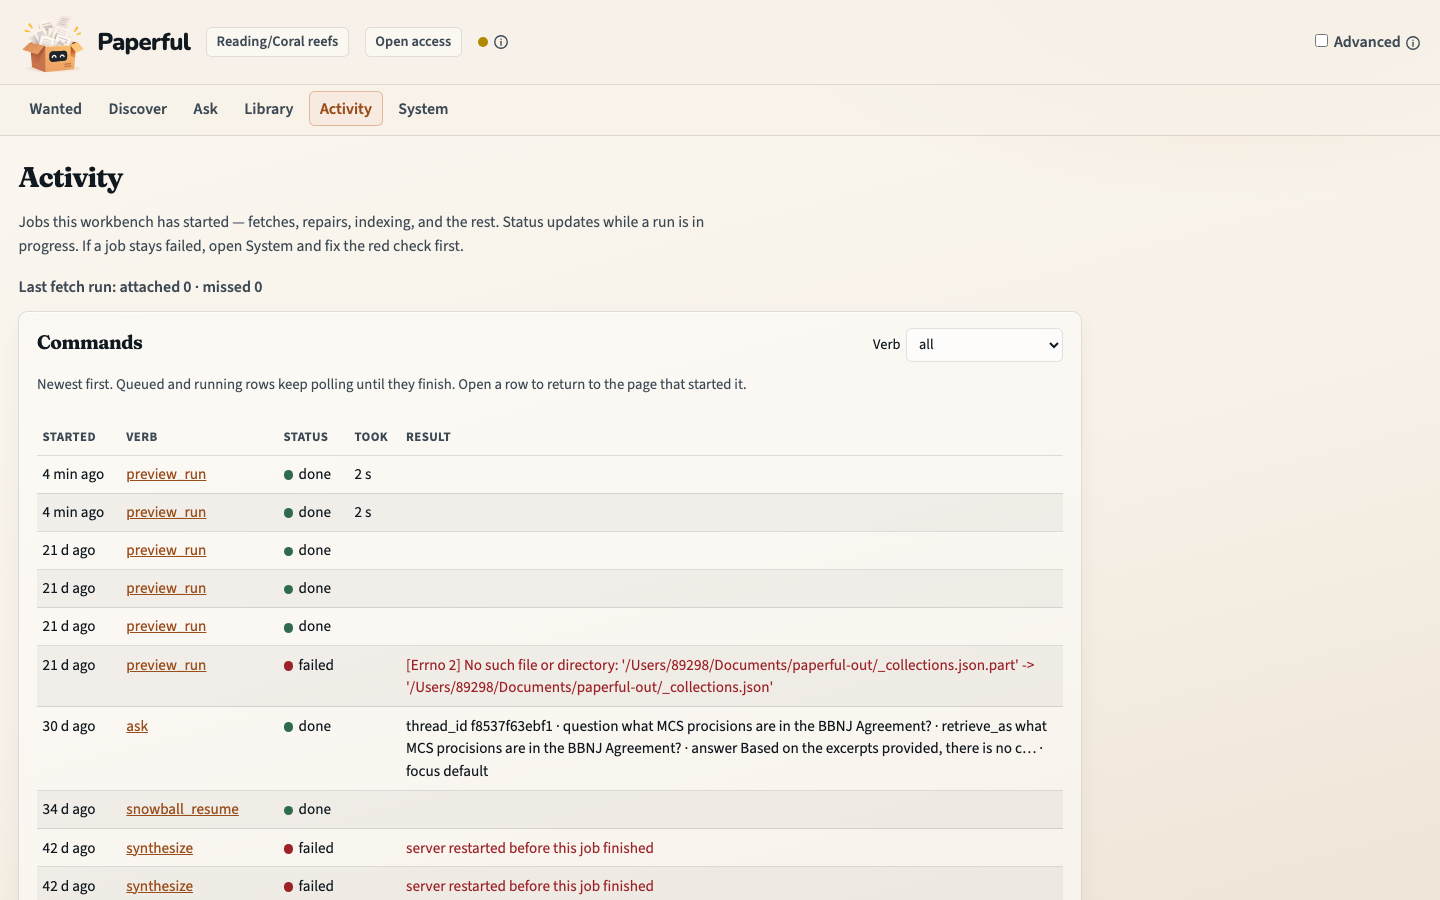
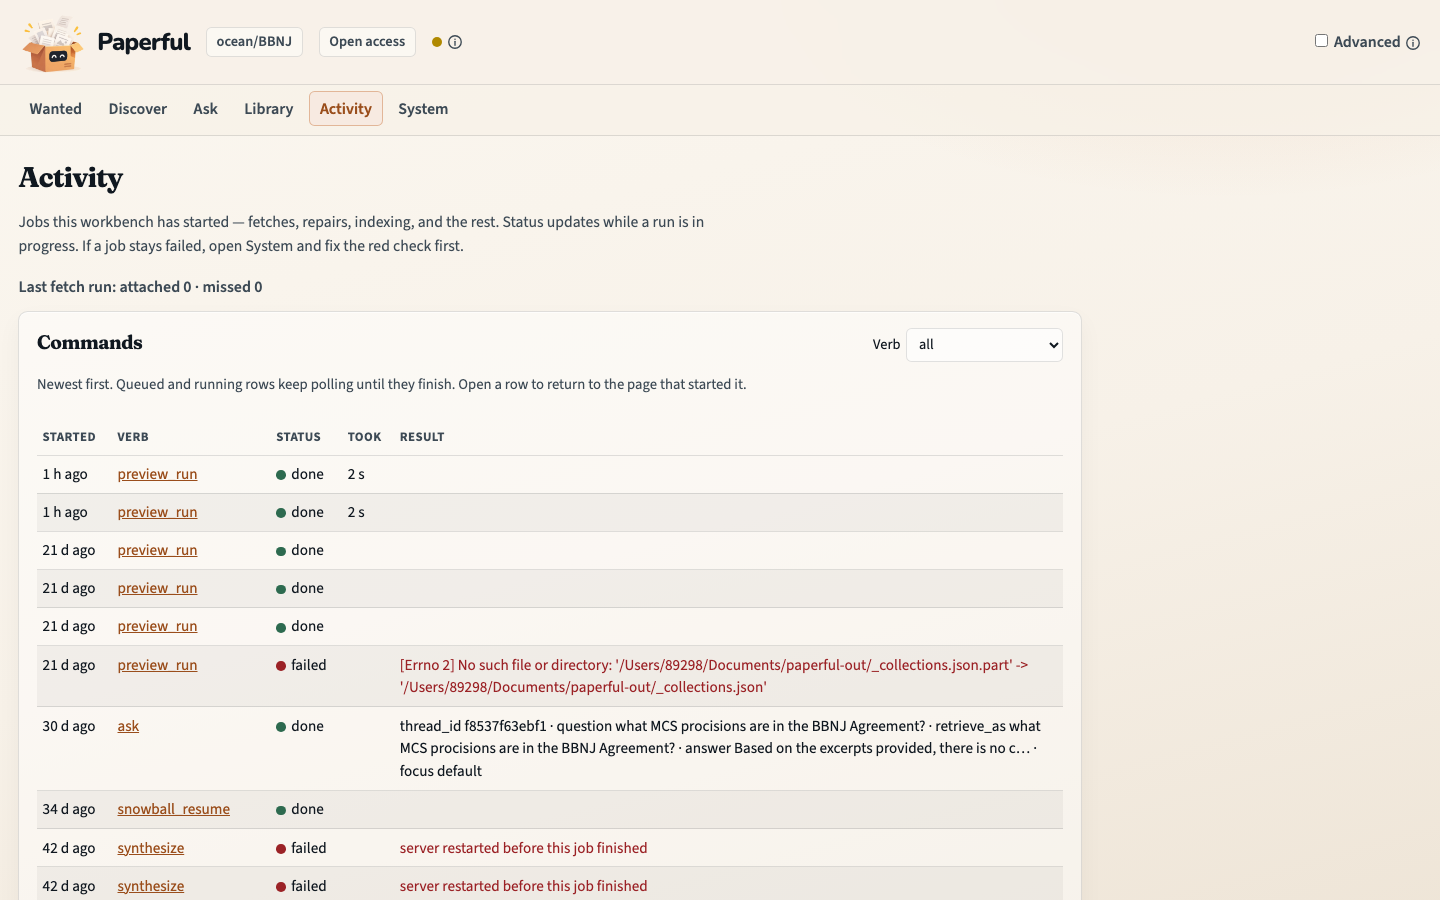
Update documentation to reflect changes in collection references and improve clarity
This commit updates various documentation files to replace references from the `Reading/Coral reefs` collection to the new `ocean/BBNJ` collection. Changes include updates to the CHANGELOG, contributing guidelines, and multiple documentation files to ensure consistency across the project. Additionally, screenshots and example commands have been modified to align with the new collection, enhancing the user experience and clarity of the documentation.

diff --git a/paperful/ui/templates/discover.html b/paperful/ui/templates/discover.html
@@ -309,7 +309,7 @@
   {% else %}
   <form method="post" action="/discover/search/run" class="form-stack" id="discoverWebForm">
     <label>Query {{ info("Terms sent to SearXNG. Quote phrases. filetype:pdf is appended unless you pick none.") }}
-      <input name="query" placeholder='"coral reef" OR "reef restoration"'>
+      <input name="query" placeholder='"BBNJ" OR "biodiversity beyond national jurisdiction"'>
     </label>
     <label>Hosts {{ info("Optional comma list. Restricts hits and adds site: ORs.") }}
       <input name="hosts" placeholder="iucn.org,undocs.org,highseasalliance.org">
@@ -326,7 +326,7 @@
   <form method="post" action="/discover/search/watch/save" class="form-stack">
     <p class="field-legend">Watch {{ info("Save this query as a pull-only grey watch. Paperful remembers seen URLs and proposes new ones. You still cron search watch run — there is no built-in scheduler.") }}</p>
     <label>Watch name <input name="name" placeholder="my-search" required></label>
-    <label>Query <input name="query" placeholder='"coral reef" OR "reef restoration"'></label>
+    <label>Query <input name="query" placeholder='"BBNJ" OR "biodiversity beyond national jurisdiction"'></label>
     <label>Hosts <input name="hosts" placeholder="iucn.org,undocs.org"></label>
     <input type="hidden" name="filetype" value="pdf">
     <label>Interval days <input name="interval_days" type="number" min="0" max="365" value="7"></label>

diff --git a/website/index.html b/website/index.html
@@ -107,9 +107,6 @@
             first, campus when you have it. A folder copy stays on this
             machine — yours to back up or take elsewhere.
           </p>
-          <p class="fine" style="margin-top: 0.5rem; opacity: 0.75;">
-            Not paperful.io — Paperful is a free, open-source helper for your own Zotero library.
-          </p>
           <div class="cta-row">
             <a class="btn primary" href="#product">See how it works</a>
             <a class="btn ghost" href="#install">Install</a>

diff --git a/scripts/docs/seed_demo_collection.py b/scripts/docs/seed_demo_collection.py
@@ -5,8 +5,12 @@ Needs Zotero open (local API), Unpaywall email in config.toml, and network.
 Ask needs ``[llm]`` enabled. Does not opt in Sci-Hub or Scholar.
 
     uv run python scripts/docs/seed_demo_collection.py
-    PAPERFUL_SHOT_COLLECTION="Reading/Coral reefs" \\
+    PAPERFUL_SHOT_COLLECTION="ocean/BBNJ" \\
       uv run python scripts/docs/seed_demo_collection.py
+
+Public shots default to ``ocean/BBNJ``. If that collection already has
+enough parents, snowball and ``run`` are skipped so production is not
+mutated; ingest and Ask still run.
 """
 
 from __future__ import annotations
@@ -18,10 +22,10 @@ import sys
 from pathlib import Path
 
 ROOT = Path(__file__).resolve().parents[2]
-DEFAULT_COLLECTION = os.environ.get("PAPERFUL_SHOT_COLLECTION", "Reading/Coral reefs")
-DEFAULT_QUERY = os.environ.get("PAPERFUL_SHOT_TOPIC", "coral reef restoration")
+DEFAULT_COLLECTION = os.environ.get("PAPERFUL_SHOT_COLLECTION", "ocean/BBNJ")
+DEFAULT_QUERY = os.environ.get("PAPERFUL_SHOT_TOPIC", "BBNJ Agreement")
 DEFAULT_ASK = os.environ.get(
-    "PAPERFUL_SHOT_ASK", "What are coral endosymbionts?"
+    "PAPERFUL_SHOT_ASK", "What does the BBNJ Agreement require for EIAs?"
 )
 MIN_PARENTS = 20
 
@@ -78,7 +82,7 @@ def main() -> None:
     have_enough = n is not None and n >= MIN_PARENTS
 
     if have_enough:
-        print(f"skip snowball: {collection} already has ~{n} items")
+        print(f"skip snowball and run: {collection} already has ~{n} items")
     else:
         _paperful(
             "snowball",
@@ -99,32 +103,31 @@ def main() -> None:
             "--no-author-site-preflight",
             "--no-refine",
         )
-
-    # Have: a few OA PDFs attached (Zotero 10+).
-    _paperful(
-        "run",
-        "-C",
-        collection,
-        "--preset",
-        "oa",
-        "--limit",
-        "5",
-        "--no-browser-agent",
-        check=False,
-    )
-    # Held: downloaded to out/, not attached.
-    _paperful(
-        "run",
-        "-C",
-        collection,
-        "--preset",
-        "oa",
-        "--limit",
-        "5",
-        "--no-attach",
-        "--no-browser-agent",
-        check=False,
-    )
+        # Have: a few OA PDFs attached (Zotero 10+).
+        _paperful(
+            "run",
+            "-C",
+            collection,
+            "--preset",
+            "oa",
+            "--limit",
+            "5",
+            "--no-browser-agent",
+            check=False,
+        )
+        # Held: downloaded to out/, not attached.
+        _paperful(
+            "run",
+            "-C",
+            collection,
+            "--preset",
+            "oa",
+            "--limit",
+            "5",
+            "--no-attach",
+            "--no-browser-agent",
+            check=False,
+        )
 
     ingest = _paperful("rag", "ingest", "-C", collection, check=False)
     if ingest.returncode != 0:

diff --git a/scripts/docs/capture_workbench.py b/scripts/docs/capture_workbench.py
@@ -30,15 +30,15 @@ DOCS_OUT = ROOT / "docs" / "_static" / "workflows"
 WEB_OUT = ROOT / "website" / "images"
 THREADS = Path(load_config().state_dir) / "rag" / "threads"
 BASE = os.environ.get("PAPERFUL_UI", "http://127.0.0.1:8765").rstrip("/")
-COLLECTION = os.environ.get("PAPERFUL_SHOT_COLLECTION", "Reading/Coral reefs")
-TOPIC_QUERY = os.environ.get("PAPERFUL_SHOT_TOPIC", "coral reef restoration")
-SEARCH_Q = os.environ.get("PAPERFUL_SHOT_SEARCH", "reef restoration")
+COLLECTION = os.environ.get("PAPERFUL_SHOT_COLLECTION", "ocean/BBNJ")
+TOPIC_QUERY = os.environ.get("PAPERFUL_SHOT_TOPIC", "BBNJ Agreement")
+SEARCH_Q = os.environ.get("PAPERFUL_SHOT_SEARCH", "environmental impact assessment")
 ASK_QUESTION = os.environ.get(
     "PAPERFUL_SHOT_ASK",
-    "What are coral endosymbionts?",
+    "What does the BBNJ Agreement require for EIAs?",
 )
-PEOPLE_LIST = os.environ.get("PAPERFUL_SHOT_LIST", "reef-voices")
-FOLLOW_ORCID = os.environ.get("PAPERFUL_SHOT_ORCID", "0000-0000-0000-0000")
+PEOPLE_LIST = os.environ.get("PAPERFUL_SHOT_LIST", "bbnj-voices")
+FOLLOW_ORCID = os.environ.get("PAPERFUL_SHOT_ORCID", "0000-0001-9025-7632")
 # Title order floats "(untitled)" rows to the top; newest-first reads better.
 WANTED_ORDER = os.environ.get("PAPERFUL_SHOT_ORDER", "year_new")
 VIEWPORT = {"width": 1440, "height": 900}

diff --git a/scripts/docs/record_workflows.py b/scripts/docs/record_workflows.py
@@ -31,7 +31,7 @@ from playwright.sync_api import sync_playwright
 ROOT = Path(__file__).resolve().parents[2]
 OUT = ROOT / "docs" / "_static" / "workflows"
 BASE = os.environ.get("PAPERFUL_UI", "http://127.0.0.1:8765").rstrip("/")
-COLLECTION = os.environ.get("PAPERFUL_SHOT_COLLECTION", "Reading/Coral reefs")
+COLLECTION = os.environ.get("PAPERFUL_SHOT_COLLECTION", "ocean/BBNJ")
 # Title order floats "(untitled)" rows to the top; newest-first reads better.
 WANTED_ORDER = os.environ.get("PAPERFUL_SHOT_ORDER", "year_new")
 VIEWPORT = {"width": 1280, "height": 800}
@@ -377,7 +377,7 @@ def flow_library_scope(browser, workdir: Path) -> None:
     row.scroll_into_view_if_needed()
     page.wait_for_timeout(200)
     rec.frame(0.6)
-    rec.click(row.locator("button.icon-btn").first, hold_before=0.5, navigates=False)
+    rec.click(row.locator("button.icon-btn").first, hold_before=0.5, navigates=True)
     page.wait_for_timeout(800)
     page.evaluate("() => window.scrollTo(0, 0)")
     page.wait_for_timeout(200)

diff --git a/docs/grey-search.md b/docs/grey-search.md
@@ -14,20 +14,20 @@ fetch.
 ## CLI
 
 ```text
-paperful search "coral reef" OR "reef restoration" \
+paperful search "BBNJ" OR "biodiversity beyond national jurisdiction" \
   --hosts example.org \
   --max 30 --format json
-paperful search "coral reef" --apply -C "Reading/Coral reefs"
+paperful search "BBNJ" --apply -C ocean/BBNJ
 paperful search --run-id <id>
 paperful search --list
-paperful search watch save reefs --query "coral reef" --hosts example.org --interval-days 7
-paperful search watch run reefs          # first time: baseline, inbox empty
-paperful search watch run reefs --force  # skip the interval wait
-paperful search watch apply reefs -C "Reading/Coral reefs"          # dry-run
-paperful search watch apply reefs -C "Reading/Coral reefs" --apply  # metadata parents
-paperful search watch show reefs
+paperful search watch save bbnj-grey --query "BBNJ" --hosts example.org --interval-days 7
+paperful search watch run bbnj-grey          # first time: baseline, inbox empty
+paperful search watch run bbnj-grey --force  # skip the interval wait
+paperful search watch apply bbnj-grey -C ocean/BBNJ          # dry-run
+paperful search watch apply bbnj-grey -C ocean/BBNJ --apply  # metadata parents
+paperful search watch show bbnj-grey
 paperful search watch list
-paperful search watch save reefs2 --from-run <run-id>   # copy query and hosts from state/search/<run-id>/
+paperful search watch save bbnj-grey2 --from-run <run-id>   # copy query and hosts from state/search/<run-id>/
 paperful search watch due           # watches whose interval has elapsed
 ```
 
@@ -92,10 +92,10 @@ watch (inbox on disk). Apply from the CLI.
 ## Example
 
 ```text
-paperful search "coral reef" OR "reef restoration" \
+paperful search "BBNJ" OR "biodiversity beyond national jurisdiction" \
   --hosts example.org \
   --max 20
 ```
 
-Then `--apply -C "Reading/Coral reefs"` (or the collection chip on Discover → Web) and
+Then `--apply -C ocean/BBNJ` (or the collection chip on Discover → Web) and
 `paperful run` / Wanted for PDFs.

diff --git a/docs/grow-library.md b/docs/grow-library.md
@@ -15,7 +15,7 @@ in the same click.
 Workbench at http://127.0.0.1:8765. A collection chip is helpful (new
 parents can land there) but topic search itself does not require one.
 
-The screenshots are the Discover page on a live `Reading/Coral reefs` chip.
+The screenshots are the Discover page on a live `ocean/BBNJ` chip.
 
 ## What you’ll do
 
@@ -33,7 +33,7 @@ The screenshots are the Discover page on a live `Reading/Coral reefs` chip.
    dry-run queue). Advanced can filter by OpenAlex study designs or trusted
    journal lists (`listed_in`: DOAJ, MEDLINE, …).
 
-2. Type a query (for example `coral reef restoration`) and **Search**. You
+2. Type a query (for example `BBNJ Agreement`) and **Search**. You
    land on **Queue**, where per-row **Keep** / **Skip** marks the candidates.
    Nothing is written to Zotero yet. (**Explore**, the first tab, skips the
    keyword step: paste a DOI or title and **Open map**.)
@@ -111,12 +111,12 @@ clear next step on Wanted.
 ## CLI equivalent
 
 ```sh
-docker compose run --rm paperful snowball search "coral reef restoration" --gate dry-run
+docker compose run --rm paperful snowball search "BBNJ Agreement" --gate dry-run
 # review state/snowball/<run-id>/
-docker compose run --rm paperful snowball apply <run-id> --apply -C "Reading/Coral reefs"
-docker compose run --rm paperful authorwatch save reef-voices
-docker compose run --rm paperful authorwatch add reef-voices --orcid 0000-0000-0000-0000
-docker compose run --rm paperful authorwatch run reef-voices
+docker compose run --rm paperful snowball apply <run-id> --apply -C ocean/BBNJ
+docker compose run --rm paperful authorwatch save bbnj-voices
+docker compose run --rm paperful authorwatch add bbnj-voices --orcid 0000-0001-9025-7632
+docker compose run --rm paperful authorwatch run bbnj-voices
 ```
 
 ## Next

diff --git a/docs/first-fill.md b/docs/first-fill.md
@@ -20,7 +20,7 @@ http://127.0.0.1:8765). Zotero is open on the host with the local API
 enabled. You do not need campus EZProxy or a local model for an open-access
 pass (`Open access` on the preset chip).
 
-The screenshots are `Reading/Coral reefs`. The clicks are the same for any collection.
+The screenshots are `ocean/BBNJ`. The clicks are the same for any collection.
 
 ## What you’ll do
 
@@ -44,7 +44,7 @@ The screenshots are `Reading/Coral reefs`. The clicks are the same for any colle
    Missing. The default tab is the first non-empty bucket. Missing rows use
    miss-surface icons (hover for the plain-language reason).
 
-![Wanted: missing PDFs in Reading/Coral reefs, rows selected for Preview / Grab](_static/workflows/wanted.png)
+![Wanted: missing PDFs in ocean/BBNJ, rows selected for Preview / Grab](_static/workflows/wanted.png)
 
 3. Tick the rows you want, then **Preview selected** (or **Preview all**).
    The button labels switch from *all* to *selected* as you tick. Preview
@@ -110,10 +110,10 @@ those copies attached in Zotero if you asked.
 ## CLI equivalent
 
 ```sh
-docker compose run --rm paperful gaps -C "Reading/Coral reefs"
-docker compose run --rm paperful run -C "Reading/Coral reefs" --preset oa --dry-run
+docker compose run --rm paperful gaps -C ocean/BBNJ
+docker compose run --rm paperful run -C ocean/BBNJ --preset oa --dry-run
 # manual: download only, then attach
-docker compose run --rm paperful run -C "Reading/Coral reefs" --preset oa --no-attach
+docker compose run --rm paperful run -C ocean/BBNJ --preset oa --no-attach
 # open out/ yourself
 docker compose run --rm paperful attach   # every PDF waiting in the manifest; attach has no -C
 # automatic is `run` without --no-attach (config attach = true), on Zotero 10+

diff --git a/docs/ROADMAP.md b/docs/ROADMAP.md
@@ -1401,7 +1401,7 @@ Repair and further Ask work until Wanted proves out.
 
 Launch gates, in order:
 
-1. The paperful.io collision strip, then a link-preview paste test.
+1. A link-preview paste test (no paperful.io disclaimer — do not add one).
 2. Re-crop the share image as `og-v2.png` so the Wanted heading and count
    show. **Shipped** (`website/images/og-v2.png`, homepage `og:image`).
 3. A `robots.txt` with the sitemap line.
@@ -1488,7 +1488,7 @@ the 1.1 plan stays legible.
 
 1. **1.1.1** — P0 scoping and ticks, Attach-at-zero, review-token test,
    version single-source, first-hour copy.
-2. **Launch gates** — paperful.io strip, share image (`og-v2.png` **shipped**),
+2. **Launch gates** — share image (`og-v2.png` **shipped**),
    robots, title; GitHub About remains an operator step.
 3. **Wanted excellence** — **shipped** (stamps, reasons, hand-ticks,
    Waiting→add); keep honesty polish here.

diff --git a/CONTRIBUTING.md b/CONTRIBUTING.md
@@ -23,9 +23,9 @@ only `docs/*.md`; every page must appear in `docs/index.md` toctrees
 (`tests/test_sphinx_docs.py`). The docs workflow is advisory (warnings
 allowed) and Pages deploys without `-W`, so run `DOCS_STRICT=1 make docs`
 locally before pushing guide changes. Live site: [paperful.app](https://paperful.app/) with the guide at
-[paperful.app/guide/](https://paperful.app/guide/). Public shots use a
-demo collection (`Reading/Coral reefs` by default). Seed it once (Zotero
-open, email in config, network; Ask needs `[llm]`):
+[paperful.app/guide/](https://paperful.app/guide/). Public shots use `ocean/BBNJ` (Ocean → BBNJ; `-C BBNJ` will not resolve).
+If that collection is already populated, seed skips snowball and `run`.
+Otherwise seed once (Zotero open, email in config, network; Ask needs `[llm]`):
 
 ```sh
 uv run python scripts/docs/seed_demo_collection.py

diff --git a/docs/gui.md b/docs/gui.md
@@ -233,9 +233,9 @@ report**; Briefs labels the same pair **Dry-run** / **Write report**). **Extract
 `[rag].enabled` required; optional GROBID checkbox. See
 [rag.md](rag.md#structured-sections-mirror-only) and [GROBID](grobid.md).
 
-![Index: ingest scoped and a passage search run over Reading/Coral reefs](_static/workflows/index.png)
+![Index: ingest scoped and a passage search run over ocean/BBNJ](_static/workflows/index.png)
 
-![Ask: a cited answer from PDFs already on disk in Reading/Coral reefs](_static/workflows/index-ask.png)
+![Ask: a cited answer from PDFs already on disk in ocean/BBNJ](_static/workflows/index-ask.png)
 
 **Briefs**: collection **summarize** / **synthesize** when `[llm]` is on.
 Synthesize has a **Layout** control (`default`, `conflict`, `review`; CLI

diff --git a/docs/rag.md b/docs/rag.md
@@ -8,7 +8,7 @@ completion); **advanced** scores passages first — [Ask modes](#ask-modes).
 workbench, that is **Ask** on the default nav. Extra cites for a draft reuse
 that retriever: [stuff](stuff.md).
 
-![Ask: a cited answer from PDFs already on disk in Reading/Coral reefs](_static/workflows/index-ask.png)
+![Ask: a cited answer from PDFs already on disk in ocean/BBNJ](_static/workflows/index-ask.png)
 
 Everything here is optional and off until `[rag].enabled = true`.
 
